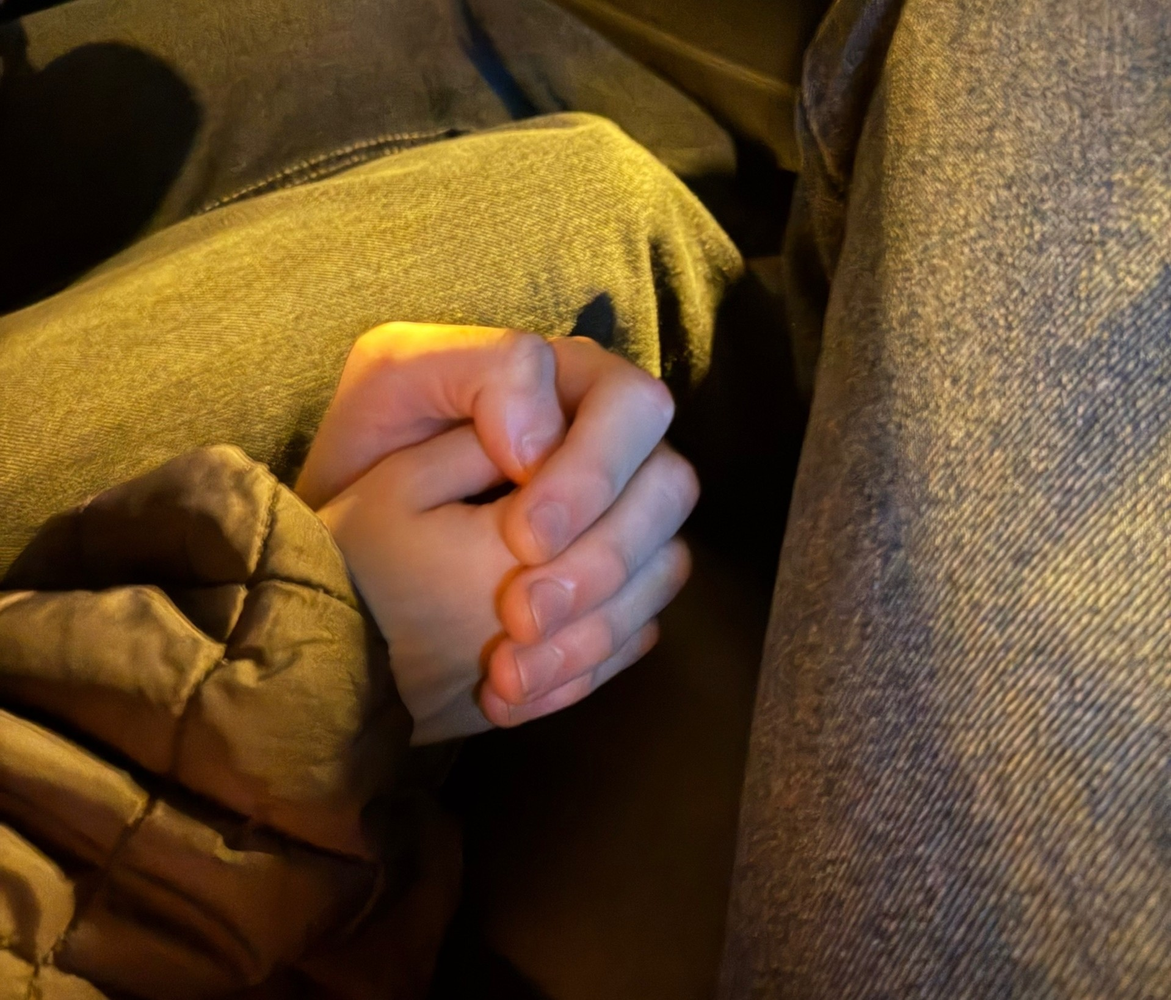
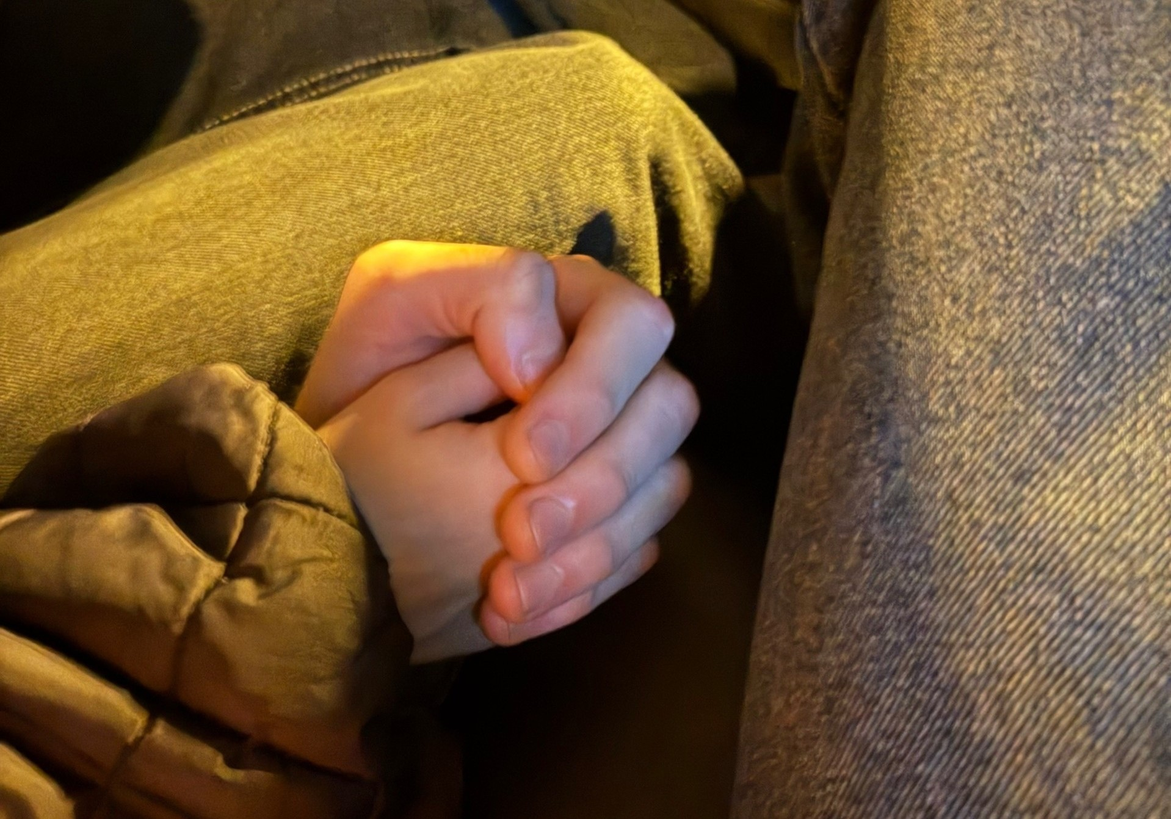
ам

diff --git a/css/styles.css b/css/styles.css
@@ -903,6 +903,10 @@ body.fx-ripple .page {
     --jitter: 0.12;
     --dust: 0.28;
   }
+  
+  .page {
+    animation: none;
+  }
 
   .sound-toggle {
     right: 0.85rem;
